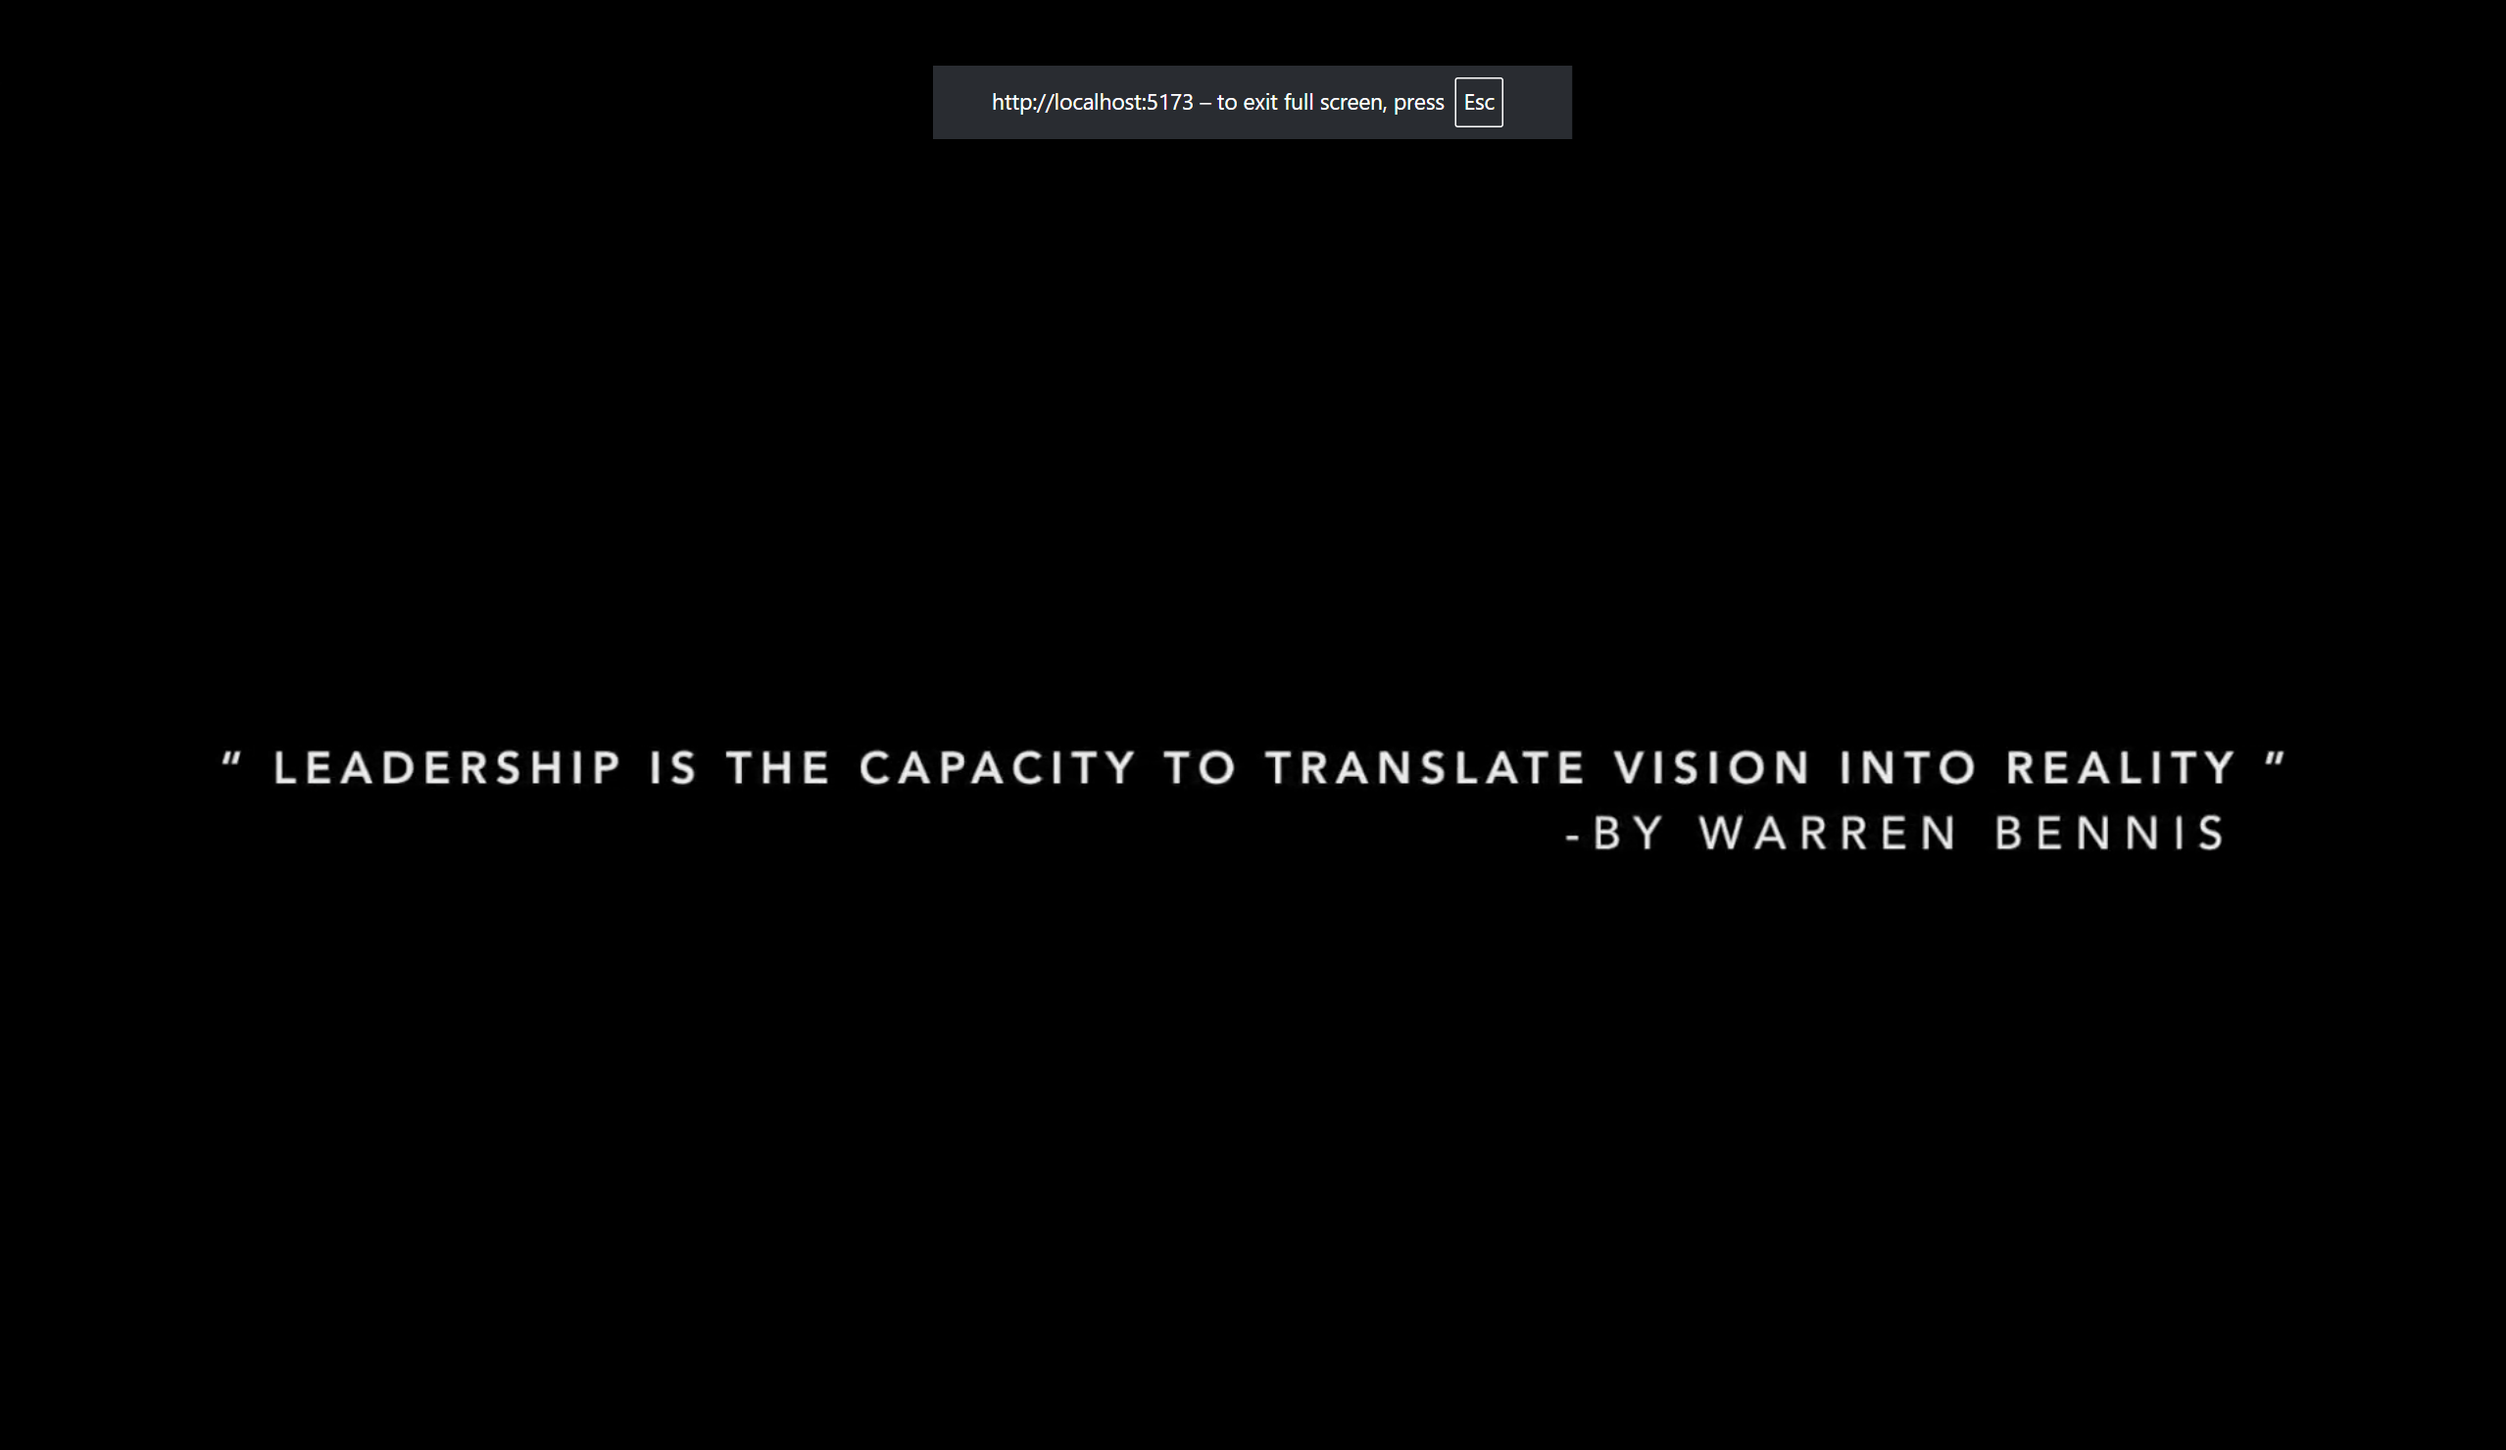
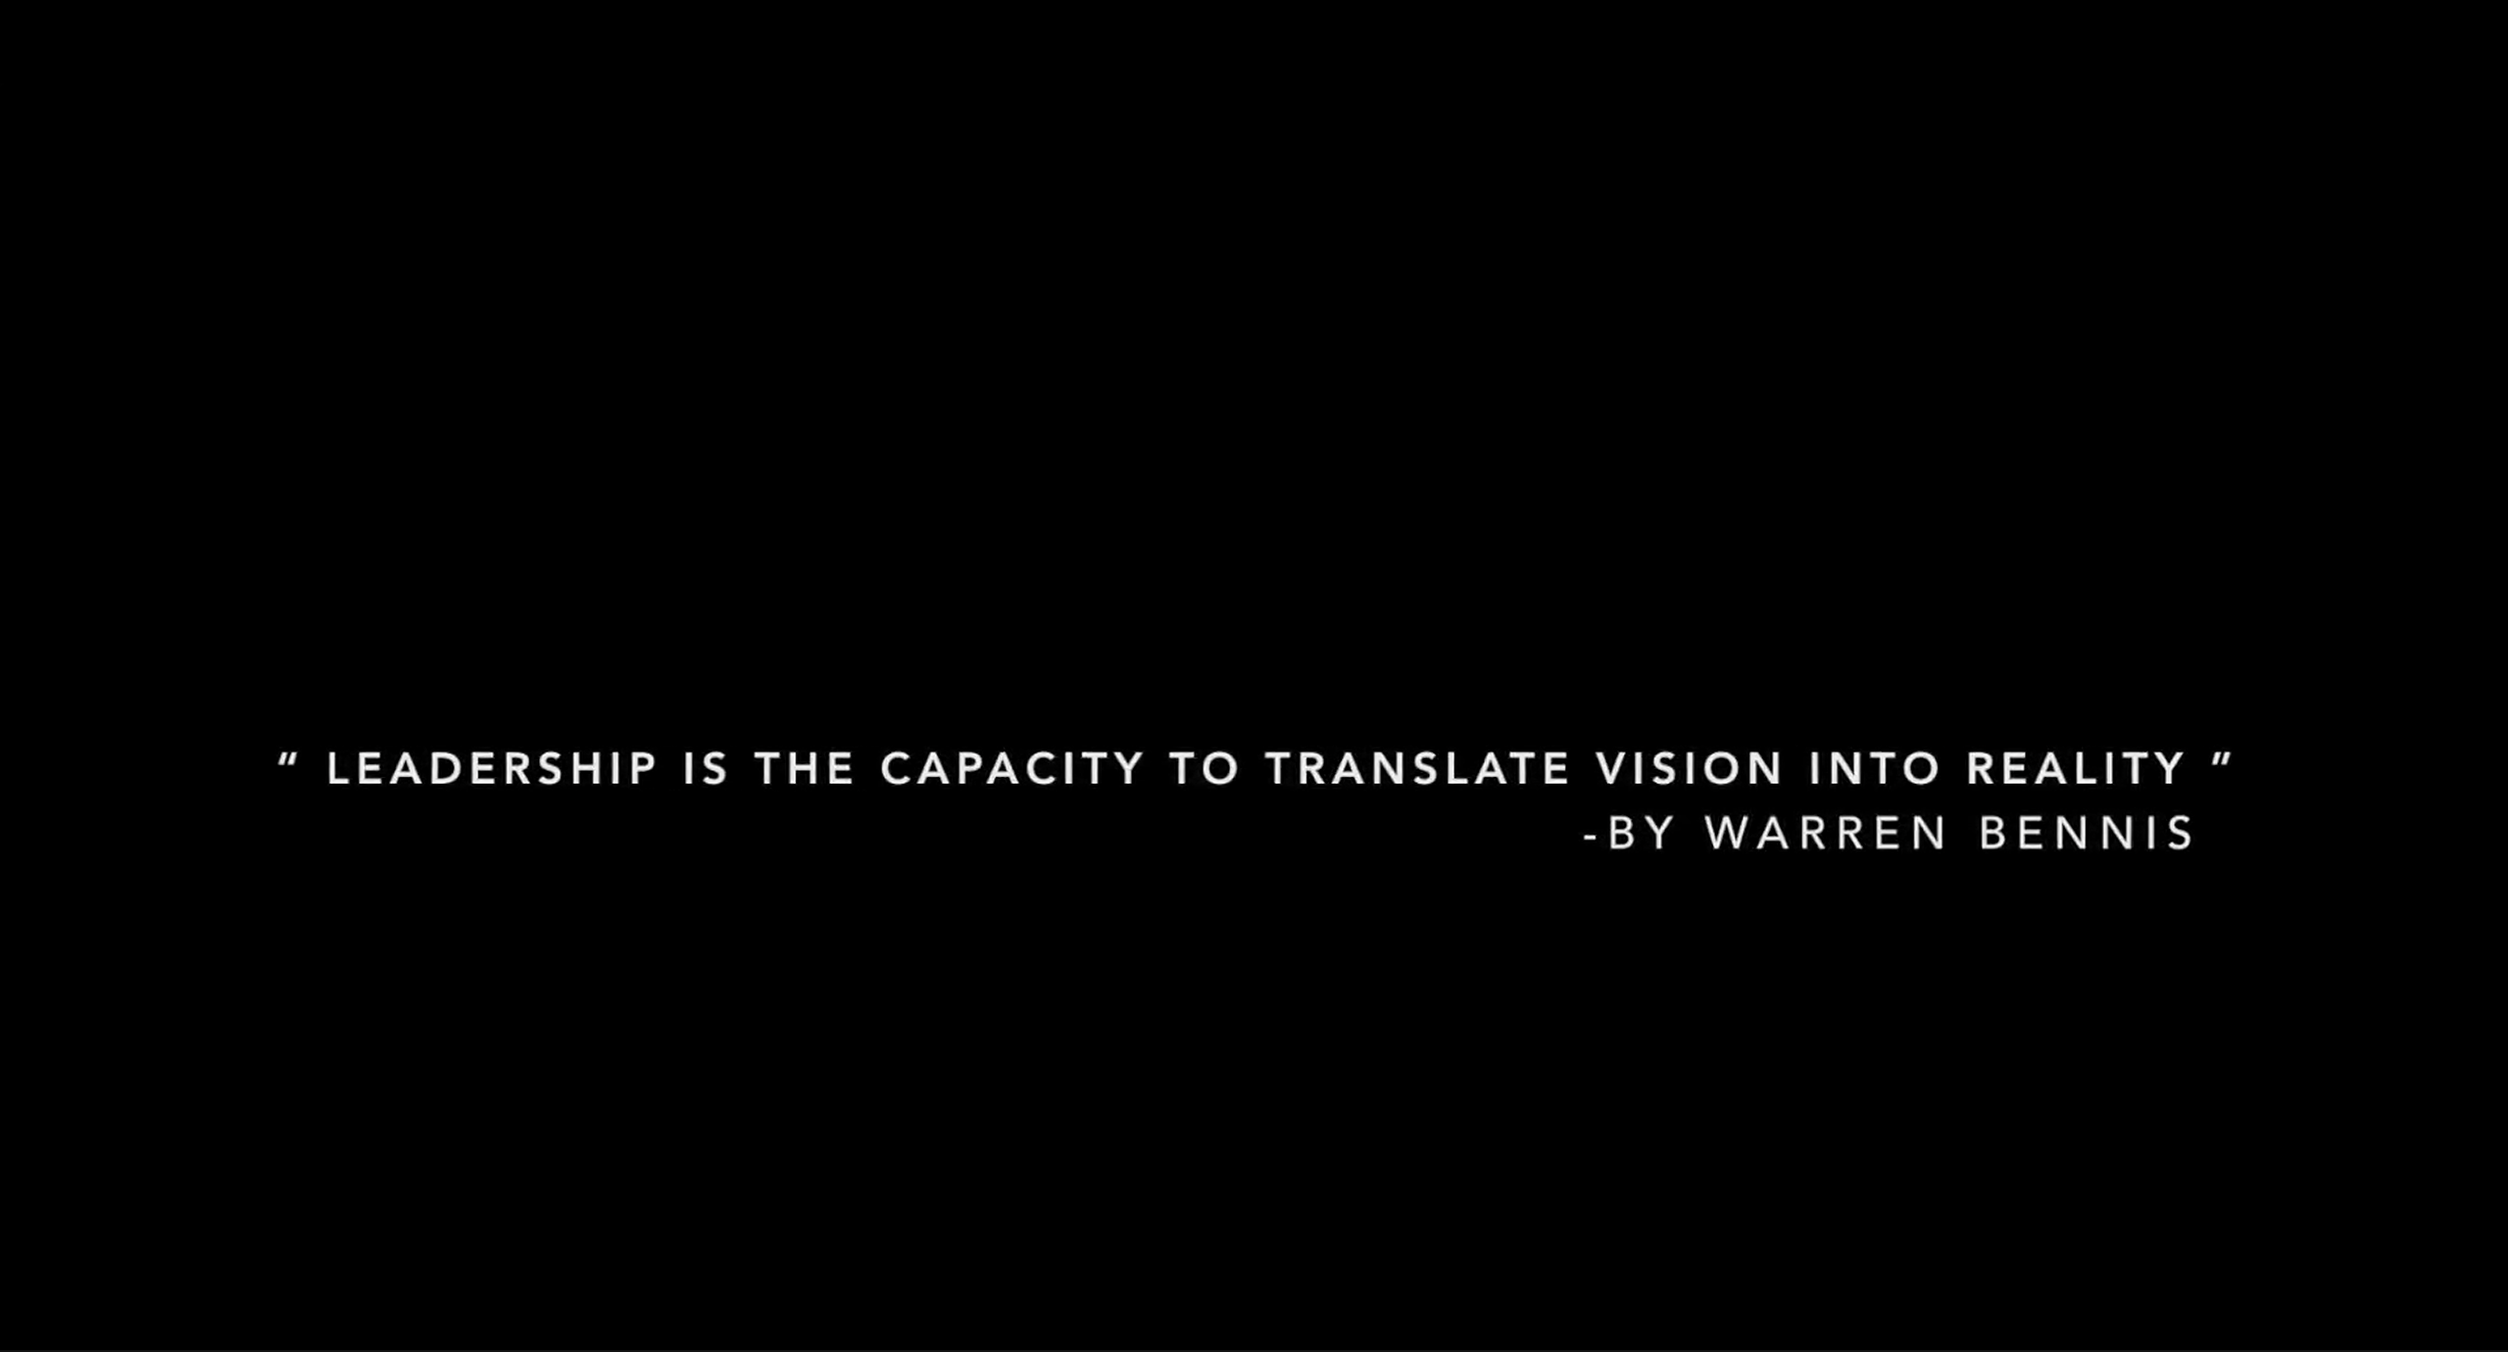
files commited

Changed region(s): [[0.0927, 0.4986, 0.896, 0.6232], [0.3707, 0.0312, 0.6488, 0.0935]]

diff --git a/src/components/CapabilitiesSection.tsx b/src/components/CapabilitiesSection.tsx
@@ -360,7 +360,7 @@ const CapabilityItem: React.FC<CapabilityItemProps> = ({
                       <img
                         src={image}
                         alt={`Turnkey paintshop visual ${idx + 1}`}
-                        className="relative w-full h-[260px] md:h-[320px] object-contain bg-slate-50 cursor-pointer transition-transform duration-500 group-hover:scale-105"
+                        className="relative w-full h-[300px] md:h-[350px] object-contain bg-slate-50 cursor-pointer transition-transform duration-500 group-hover:scale-105"
                         loading="lazy"
                         onClick={() => setSelectedImageIndex(idx)}
                       />
@@ -383,13 +383,13 @@ const CapabilityItem: React.FC<CapabilityItemProps> = ({
                 {capability.images.map((image, imageIndex) => (
                   <div
                     key={imageIndex}
-                    className="relative overflow-hidden rounded-2xl shadow-2xl group cursor-pointer"
+                    className="relative overflow-hidden rounded-2xl shadow-lg border border-slate-200 bg-white group cursor-pointer"
                     onClick={() => setSelectedImageIndex(imageIndex)}
                   >
                     <img 
                       src={image} 
                       alt={`${capability.title} ${imageIndex + 1}`}
-                      className="w-full h-[260px] md:h-[320px] object-cover group-hover:scale-105 transition-transform duration-500"
+                      className="w-full h-[300px] md:h-[350px] object-contain bg-slate-50 group-hover:scale-105 transition-transform duration-500"
                       loading="lazy"
                     />
                     <div className="absolute inset-0 bg-gradient-to-t from-black/20 to-transparent opacity-0 group-hover:opacity-100 transition-opacity duration-300 pointer-events-none" />
@@ -398,17 +398,17 @@ const CapabilityItem: React.FC<CapabilityItemProps> = ({
               </div>
             ) : (
               // Large 2-column grid for digitization (2 images)
-              <div className="grid grid-cols-1 md:grid-cols-2 gap-2">
+              <div className="grid grid-cols-1 md:grid-cols-2 gap-4">
                 {capability.images.map((image, imageIndex) => (
                   <div
                     key={imageIndex}
-                    className="relative overflow-hidden rounded-2xl shadow-2xl group cursor-pointer"
+                    className="relative overflow-hidden rounded-2xl shadow-lg border border-slate-200 bg-white group cursor-pointer"
                     onClick={() => setSelectedImageIndex(imageIndex)}
                   >
                     <img 
                       src={image} 
                       alt={`${capability.title} ${imageIndex + 1}`}
-                      className="w-full h-[400px] md:h-[450px] object-cover group-hover:scale-105 transition-transform duration-500"
+                      className="w-full h-[300px] md:h-[350px] object-contain bg-slate-50 group-hover:scale-105 transition-transform duration-500"
                       loading="lazy"
                     />
                     <div className="absolute inset-0 bg-gradient-to-t from-black/30 to-transparent opacity-0 group-hover:opacity-100 transition-opacity duration-300 pointer-events-none" />
@@ -495,11 +495,11 @@ const RoboticImageCarousel: React.FC<{ images: string[]; onImageClick: (index: n
         <style>{`.hide-scrollbar::-webkit-scrollbar{display:none}`}</style>
         {images.map((image, i) => (
           <div key={i} className="flex-none w-[450px] md:w-[550px]">
-            <div className="relative overflow-hidden rounded-2xl shadow-2xl group cursor-pointer" onClick={() => onImageClick(i)}>
+            <div className="relative overflow-hidden rounded-2xl shadow-lg border border-slate-200 bg-white group cursor-pointer" onClick={() => onImageClick(i)}>
               <img 
                 src={image} 
                 alt={`Robotic application ${i + 1}`}
-                className="w-full h-[350px] md:h-[400px] object-cover group-hover:scale-105 transition-transform duration-500"
+                className="w-full h-[300px] md:h-[350px] object-contain bg-slate-50 group-hover:scale-105 transition-transform duration-500"
                 loading="lazy"
               />
               <div className="absolute inset-0 bg-gradient-to-t from-black/20 to-transparent opacity-0 group-hover:opacity-100 transition-opacity duration-300 pointer-events-none" />

diff --git a/src/components/SimpleNewsSection.tsx b/src/components/SimpleNewsSection.tsx
@@ -1,4 +1,4 @@
-import React, { useState } from 'react';
+import React, { useState, useEffect } from 'react';
 import { useNewsFirestore } from '../hooks/useNewsFirestore';
 
 interface NewsArticle {
@@ -17,6 +17,18 @@ interface NewsArticle {
 const SimpleNewsSection: React.FC = () => {
   const [selectedArticle, setSelectedArticle] = useState<NewsArticle | null>(null);
   const { news, loading, error } = useNewsFirestore();
+
+  // Lock body scroll when modal is open
+  useEffect(() => {
+    if (selectedArticle) {
+      document.body.style.overflow = 'hidden';
+    } else {
+      document.body.style.overflow = '';
+    }
+    return () => {
+      document.body.style.overflow = '';
+    };
+  }, [selectedArticle]);
 
   const publishedNews = news.filter(article => article.published);
   const latestPublished = publishedNews.slice(0, 3); // show only latest few on homepage
@@ -93,7 +105,7 @@ const SimpleNewsSection: React.FC = () => {
             {latestPublished.map(article => (
               <div
                 key={article.id}
-                className="group relative bg-white rounded-2xl border border-slate-200/80 shadow-sm hover:shadow-xl hover:shadow-slate-200/50 hover:-translate-y-2 transition-all duration-300 ease-out flex flex-col overflow-hidden"
+                className="group relative bg-white rounded-2xl border border-slate-200 shadow-md hover:shadow-xl hover:-translate-y-2 transition-all duration-300 ease-out flex flex-col overflow-hidden"
               >
                 {article.featured && (
                   <div className="absolute top-0 left-0 right-0 h-1 bg-gradient-to-r from-amber-400 to-amber-500 z-10" />
@@ -171,8 +183,14 @@ const SimpleNewsSection: React.FC = () => {
 
       {/* News Detail Modal */}
       {selectedArticle && (
-        <div className="fixed inset-0 bg-black bg-opacity-50 flex items-center justify-center z-50 p-4">
-          <div className="bg-white rounded-2xl shadow-2xl max-w-4xl w-full max-h-[90vh] overflow-hidden">
+        <div 
+          className="fixed inset-0 bg-black bg-opacity-50 flex items-center justify-center z-50 p-4"
+          onClick={() => setSelectedArticle(null)}
+        >
+          <div 
+            className="bg-white rounded-2xl shadow-2xl max-w-4xl w-full max-h-[90vh] overflow-hidden"
+            onClick={(e) => e.stopPropagation()}
+          >
             {/* Modal Header */}
             <div className="relative">
               {selectedArticle.imageUrl && (

diff --git a/src/pages/HomePage.tsx b/src/pages/HomePage.tsx
@@ -60,8 +60,8 @@ const HomePage: React.FC = () => {
       <main>
 
       {/* Threads Hero - Desktop Only */}
-      <div className="hidden md:flex w-full items-center justify-center pt-20">
-        <div className="w-full h-[60vh] relative">
+      <div className="hidden md:flex w-full items-center justify-center pt-20 overflow-visible">
+        <div className="w-full h-[80vh] relative overflow-visible">
           <div className="absolute inset-0 z-[2] flex items-center justify-center pointer-events-none">
             <div className="text-center px-6 lg:px-8 max-w-5xl">
               <h1 className="text-black/60 text-6xl font-extrabold tracking-tight leading-tight font-heading" style={{ textShadow: '0 2px 8px rgba(0,0,0,0.3)', fontWeight: 950 }}>
@@ -69,7 +69,7 @@ const HomePage: React.FC = () => {
               </h1>
             </div>
           </div>
-          <Threads color={[0, 0.8, 1]} amplitude={1.6} distance={0.7} animationSpeed={0.5} enableMouseInteraction={true} />
+          <Threads color={[0, 0.8, 1]} amplitude={1.2} distance={0.7} animationSpeed={0.5} enableMouseInteraction={true} />
         </div>
       </div>
 
@@ -111,7 +111,7 @@ const HomePage: React.FC = () => {
       </div>
 
       {/* Desktop CTAs */}
-      <div className="w-full hidden md:flex items-center justify-center mt-8 md:mt-12">
+      <div className="w-full hidden md:flex items-center justify-center mt-12 md:mt-16">
         <div className="flex items-center justify-center gap-6">
           <button 
             onClick={() => smoothScrollTo('capabilities')}

diff --git a/src/components/Threads.tsx b/src/components/Threads.tsx
@@ -280,7 +280,7 @@ const Threads: React.FC<ThreadsProps> = ({
     };
   }, [color, amplitude, distance, animationSpeed, enableMouseInteraction]);
 
-  return <div ref={containerRef} className="w-full h-full relative" {...rest} />;
+  return <div ref={containerRef} className="w-full h-full relative overflow-visible" {...rest} />;
 };
 
 export default Threads;

diff --git a/src/components/ui/ImageViewer.tsx b/src/components/ui/ImageViewer.tsx
@@ -271,3 +271,7 @@ export const ImageViewer: React.FC<ImageViewerProps> = ({
 
 
 
+
+
+
+
